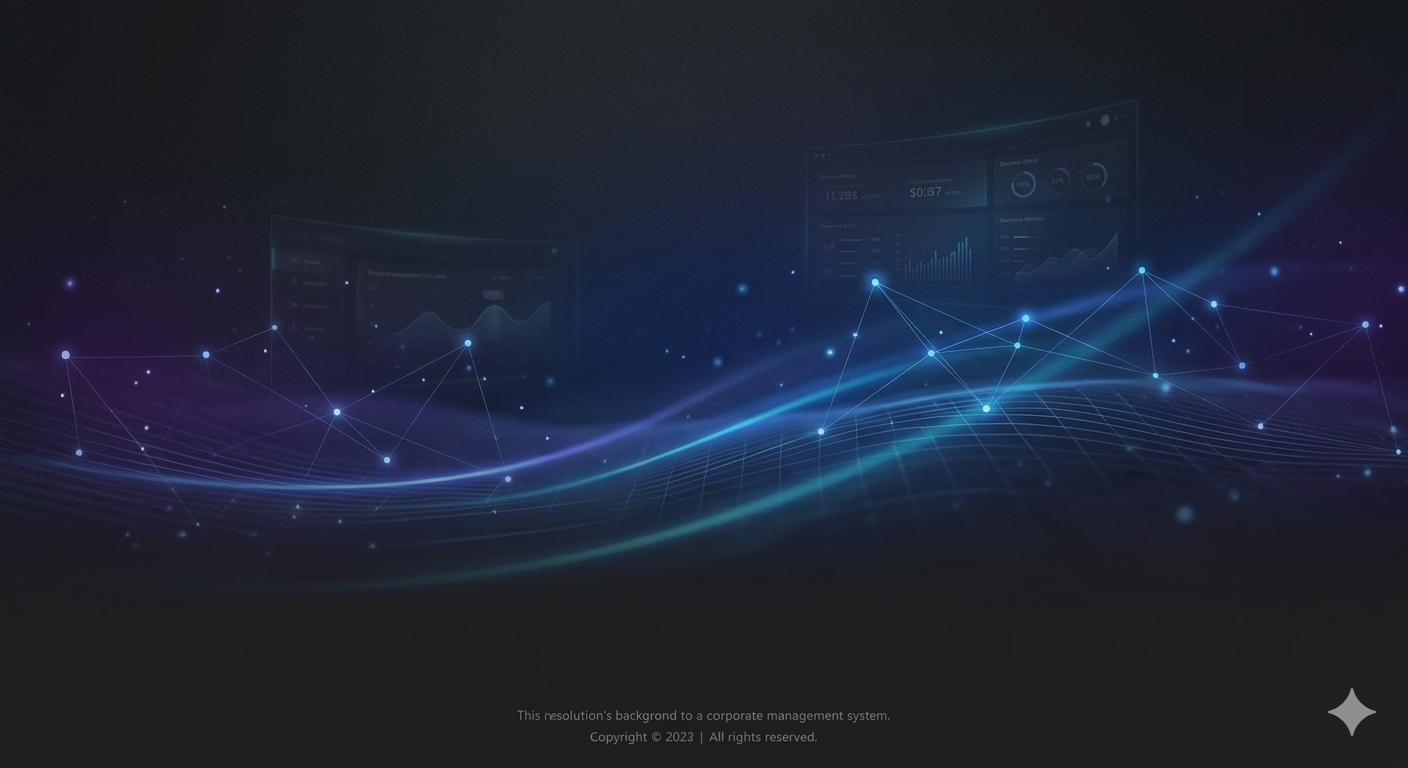
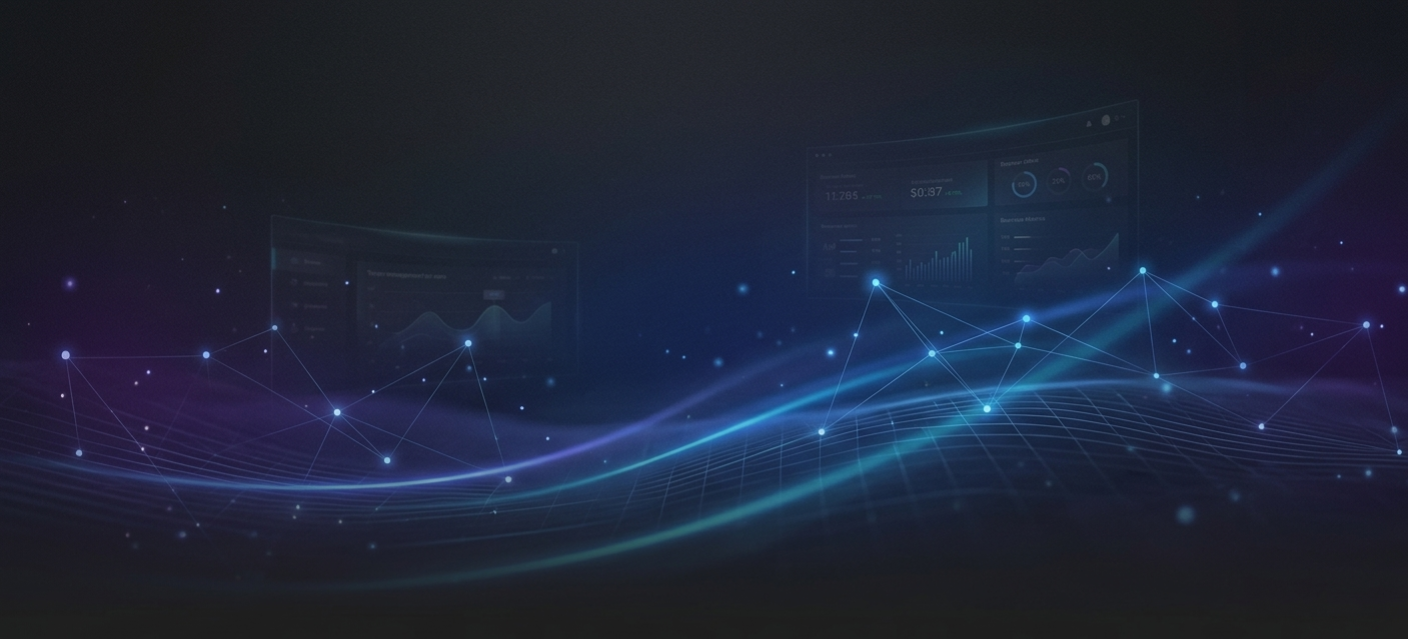
feat: implementa telas de login e registro compactas e ajuste de rotas

diff --git a/app/register/index.tsx b/app/register/index.tsx
@@ -1,0 +1,264 @@
+import React, { useState } from "react";
+import { 
+  StyleSheet, 
+  View, 
+  Text, 
+  TextInput, 
+  TouchableOpacity, 
+  Image, 
+  ImageBackground,
+  KeyboardAvoidingView, 
+  Platform, 
+  ScrollView,
+  ActivityIndicator,
+  Alert 
+} from "react-native";
+import { useRouter } from "expo-router";
+import { Eye, EyeOff, ArrowLeft } from "lucide-react-native"; 
+import { StatusBar } from "expo-status-bar";
+
+export default function RegisterPage() {
+  const [name, setName] = useState("");
+  const [email, setEmail] = useState("");
+  const [password, setPassword] = useState("");
+  const [showPassword, setShowPassword] = useState(false);
+  const [error, setError] = useState("");
+  const [isLoading, setIsLoading] = useState(false);
+  const router = useRouter();
+
+  const handleRegister = async () => {
+    setIsLoading(true);
+    setError("");
+
+    if (password.length < 6) {
+      setError("A SENHA DEVE TER PELO MENOS 6 CARACTERES.");
+      setIsLoading(false);
+      return;
+    }
+
+    try {
+      // Aqui você substituiria pela sua URL real de API
+      // const response = await fetch("SUA_API/auth/register", { ... });
+      
+      // Simulação de sucesso
+      setTimeout(() => {
+        setIsLoading(false);
+        Alert.alert("Sucesso", "CONTA CRIADA COM SUCESSO!", [
+          { text: "OK", onPress: () => router.push("/") }
+        ]);
+      }, 2000);
+
+    } catch (err) {
+      setError("ERRO AO CRIAR CONTA. TENTE NOVAMENTE.");
+      setIsLoading(false);
+    }
+  };
+
+  return (
+    <ImageBackground 
+      source={require("../../assets/images/background-apk.png")} 
+      style={styles.backgroundContainer}
+      resizeMode="cover"
+    >
+      <StatusBar style="light" />
+      <KeyboardAvoidingView 
+        behavior={Platform.OS === "ios" ? "padding" : "height"}
+        style={{ flex: 1 }}
+      >
+        <ScrollView 
+          contentContainerStyle={styles.scrollContainer} 
+          keyboardShouldPersistTaps="handled"
+          showsVerticalScrollIndicator={false}
+        >
+          <View style={styles.mainContent}>
+            
+            <View style={styles.cardContainer}>
+              {/* Header Azul */}
+              <View style={styles.headerBlue}>
+                <Image 
+                  source={require("../../assets/images/bg-profile.png")} 
+                  style={styles.logoImage}
+                  resizeMode="contain"
+                />
+              </View>
+
+              {/* Card Branco */}
+              <View style={styles.card}>
+                <View style={styles.textHeader}>
+                  <Text style={styles.title}>Nova Conta</Text>
+                  <Text style={styles.subtitle}>Crie seu acesso administrativo abaixo</Text>
+                </View>
+
+                {/* Container de Erro */}
+                <View style={styles.errorWrapper}>
+                  {error ? (
+                    <View style={styles.errorBox}>
+                      <Text style={styles.errorText}>{error}</Text>
+                    </View>
+                  ) : null}
+                </View>
+
+                <View style={styles.form}>
+                  <Text style={styles.label}>NOME COMPLETO</Text>
+                  <TextInput 
+                    style={styles.input}
+                    placeholder="Ex: Cb. Silva"
+                    placeholderTextColor="#94a3b8"
+                    value={name}
+                    onChangeText={setName}
+                  />
+
+                  <Text style={styles.label}>E-MAIL</Text>
+                  <TextInput 
+                    style={styles.input}
+                    placeholder="E-mail institucional..."
+                    placeholderTextColor="#94a3b8"
+                    value={email}
+                    onChangeText={setEmail}
+                    keyboardType="email-address"
+                    autoCapitalize="none"
+                  />
+
+                  <Text style={styles.label}>SENHA</Text>
+                  <View style={styles.passwordWrapper}>
+                    <TextInput 
+                      style={styles.inputInside}
+                      placeholder="Crie uma senha segura..."
+                      placeholderTextColor="#94a3b8"
+                      value={password}
+                      onChangeText={setPassword}
+                      secureTextEntry={!showPassword}
+                    />
+                    <TouchableOpacity 
+                      onPress={() => setShowPassword(!showPassword)}
+                      style={styles.eyeIcon}
+                    >
+                      {showPassword ? <EyeOff size={20} color="#64748b" /> : <Eye size={20} color="#64748b" />}
+                    </TouchableOpacity>
+                  </View>
+
+                  <TouchableOpacity 
+                    style={[styles.buttonMain, isLoading && styles.buttonDisabled]} 
+                    onPress={handleRegister} 
+                    disabled={isLoading}
+                  >
+                    {isLoading ? (
+                      <ActivityIndicator color="#fff" />
+                    ) : (
+                      <Text style={styles.buttonText}>CRIAR MINHA CONTA</Text>
+                    )}
+                  </TouchableOpacity>
+
+                  <TouchableOpacity 
+                    onPress={() => router.back()}
+                    style={styles.backButton}
+                  >
+                    <ArrowLeft size={16} color="#3b82f6" style={{marginRight: 5}}/>
+                    <Text style={styles.backButtonText}>Voltar ao Login</Text>
+                  </TouchableOpacity>
+                </View>
+              </View>
+            </View>
+
+           
+          </View>
+        </ScrollView>
+      </KeyboardAvoidingView>
+    </ImageBackground>
+  );
+}
+
+const styles = StyleSheet.create({
+  backgroundContainer: { flex: 1, backgroundColor: "#0f172a" },
+  scrollContainer: { flexGrow: 1 },
+  mainContent: {
+    flex: 1,
+    justifyContent: "center",
+    alignItems: "center",
+    padding: 25,
+    paddingTop: 60
+  },
+  cardContainer: { 
+    width: "100%",
+    maxWidth: 420,
+    elevation: 15,
+    shadowColor: "#000",
+    shadowOffset: { width: 0, height: 10 },
+    shadowOpacity: 0.4,
+    shadowRadius: 20,
+  },
+  headerBlue: {
+    backgroundColor: "#3b82f6",
+    height: 100,
+    borderTopLeftRadius: 20,
+    borderTopRightRadius: 20,
+    justifyContent: "center",
+    alignItems: "center",
+  },
+  logoImage: { width: 65, height: 65 },
+  card: {
+    backgroundColor: "#fff",
+    borderBottomLeftRadius: 20,
+    borderBottomRightRadius: 20,
+    paddingHorizontal: 25,
+    paddingTop: 20,
+    paddingBottom: 30,
+    marginTop: -1,
+  },
+  textHeader: { alignItems: "center", marginBottom: 5 },
+  title: { fontSize: 22, fontWeight: "bold", color: "#1e293b" },
+  subtitle: { fontSize: 12, color: "#64748b", marginTop: 4, textAlign: "center" },
+  errorWrapper: { height: 45, justifyContent: "center", marginVertical: 10 },
+  errorBox: {
+    backgroundColor: "#fef2f2",
+    borderRadius: 10,
+    padding: 8,
+    borderWidth: 1,
+    borderColor: "#fecaca",
+  },
+  errorText: { color: "#b91c1c", fontSize: 11, fontWeight: "bold", textAlign: "center" },
+  form: { width: "100%" },
+  label: { fontSize: 11, fontWeight: "bold", color: "#475569", marginBottom: 8, marginLeft: 4 },
+  input: {
+    height: 50,
+    borderWidth: 1,
+    borderColor: "#e2e8f0",
+    borderRadius: 12,
+    paddingHorizontal: 16,
+    marginBottom: 15,
+    fontSize: 14,
+    color: "#1e293b",
+    backgroundColor: "#f8fafc"
+  },
+  passwordWrapper: {
+    flexDirection: "row",
+    alignItems: "center",
+    borderWidth: 1,
+    borderColor: "#e2e8f0",
+    borderRadius: 12,
+    height: 50,
+    backgroundColor: "#f8fafc",
+    marginBottom: 25,
+  },
+  inputInside: { flex: 1, paddingHorizontal: 16, fontSize: 14, color: "#1e293b" },
+  eyeIcon: { paddingHorizontal: 15 },
+  buttonMain: {
+    backgroundColor: "#3b82f6",
+    height: 54,
+    borderRadius: 27,
+    justifyContent: "center",
+    alignItems: "center",
+    elevation: 4,
+  },
+  buttonDisabled: { backgroundColor: "#94a3b8" },
+  buttonText: { color: "#fff", fontSize: 14, fontWeight: "bold", letterSpacing: 0.5 },
+  backButton: {
+    flexDirection: "row",
+    justifyContent: "center",
+    alignItems: "center",
+    marginTop: 25,
+  },
+  backButtonText: { color: "#3b82f6", fontWeight: "bold", fontSize: 13 },
+  footer: { marginTop: 30, alignItems: 'center', marginBottom: 20 },
+  footerText: { color: '#cbd5e1', fontSize: 10, fontWeight: 'bold', letterSpacing: 1.5, opacity: 0.7 }
+});

diff --git a/app/index.tsx b/app/index.tsx
@@ -48,7 +48,7 @@ export default function LoginPage() {
 
   return (
     <ImageBackground 
-      source={require("../assets/images/background-apk.png")} // Sua imagem de fundo tecnológica
+      source={require("../assets/images/background-apk.png")}
       style={styles.backgroundContainer}
       resizeMode="cover"
     >
@@ -80,7 +80,6 @@ export default function LoginPage() {
                 <Text style={styles.subtitle}>Entre com seu e-mail e senha para continuar</Text>
               </View>
 
-              {/* Espaço fixo para o erro (evita que a tela pule/estique) */}
               <View style={styles.errorWrapper}>
                 {error ? (
                   <View style={styles.errorBox}>
@@ -135,9 +134,10 @@ export default function LoginPage() {
                   )}
                 </TouchableOpacity>
 
+                {/* BOTÃO DE REGISTRO COM NAVEGAÇÃO */}
                 <View style={styles.registerContainer}>
                   <Text style={styles.noAccountText}>Não tem uma conta? </Text>
-                  <TouchableOpacity>
+                  <TouchableOpacity onPress={() => router.push("/register")}>
                     <Text style={styles.registerText}>Cadastre-se</Text>
                   </TouchableOpacity>
                 </View>
@@ -145,7 +145,7 @@ export default function LoginPage() {
             </View>
           </View>
 
-          
+        
         </ScrollView>
       </KeyboardAvoidingView>
     </ImageBackground>
@@ -209,7 +209,7 @@ const styles = StyleSheet.create({
     textAlign: "center" 
   },
   errorWrapper: {
-    height: 45, // Reserva o espaço para o erro não empurrar os campos
+    height: 45,
     justifyContent: "center",
     marginVertical: 5,
   },

diff --git a/app/_layout.tsx b/app/_layout.tsx
@@ -8,17 +8,12 @@ import 'react-native-reanimated';
 
 import { useColorScheme } from '@/components/useColorScheme';
 
-export {
-  // Catch any errors thrown by the Layout component.
-  ErrorBoundary,
-} from 'expo-router';
+export { ErrorBoundary } from 'expo-router';
 
 export const unstable_settings = {
-  // AJUSTE: O app agora deve focar na raiz (index) inicialmente
   initialRouteName: 'index',
 };
 
-// Prevent the splash screen from auto-hiding before asset loading is complete.
 SplashScreen.preventAutoHideAsync();
 
 export default function RootLayout() {
@@ -50,11 +45,13 @@ function RootLayoutNav() {
   return (
     <ThemeProvider value={colorScheme === 'dark' ? DarkTheme : DefaultTheme}>
       <Stack>
-        {/* AJUSTE 1: Registrar a tela de LOGIN (index.tsx) */}
-        {/* headerShown: false remove a barra de título "index" do topo do app */}
+        {/* LOGIN: Sem barra superior */}
         <Stack.Screen name="index" options={{ headerShown: false }} />
 
-        {/* AJUSTE 2: Garantir que o grupo de ABAS também não tenha cabeçalho nativo */}
+        {/* REGISTRO: Adicionado aqui para remover a barra "register/index" */}
+        <Stack.Screen name="register/index" options={{ headerShown: false }} />
+
+        {/* GRUPO DE ABAS: Sem barra superior nativa do Stack */}
         <Stack.Screen name="(tabs)" options={{ headerShown: false }} />
         
         <Stack.Screen name="modal" options={{ presentation: 'modal' }} />
